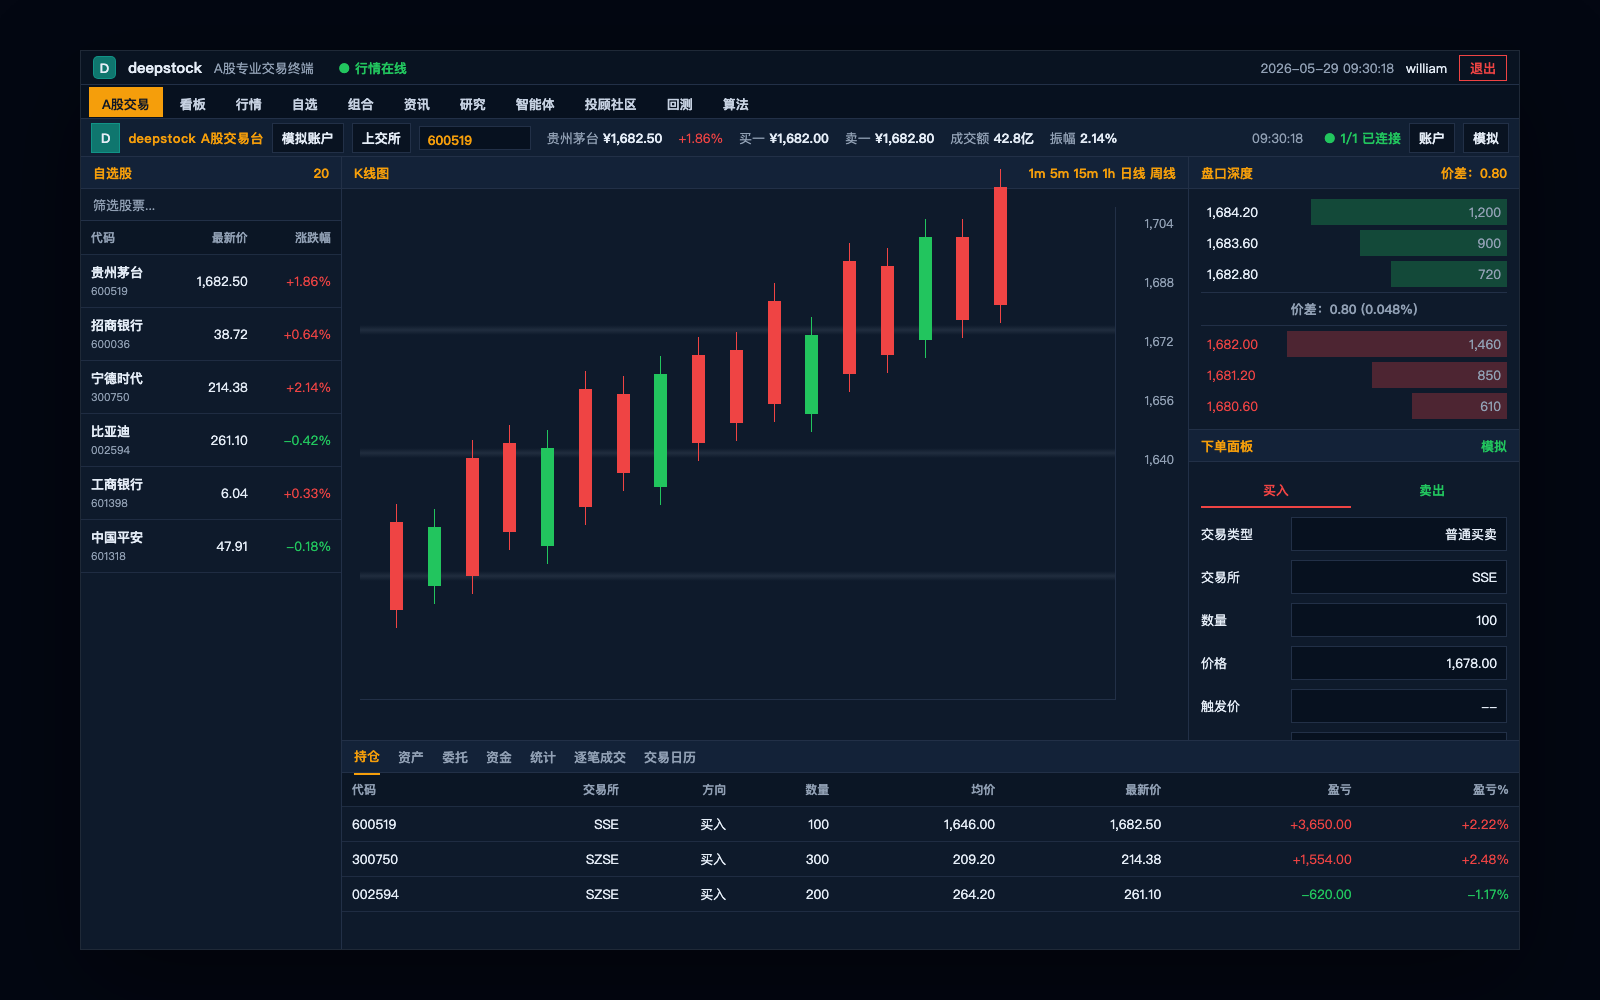
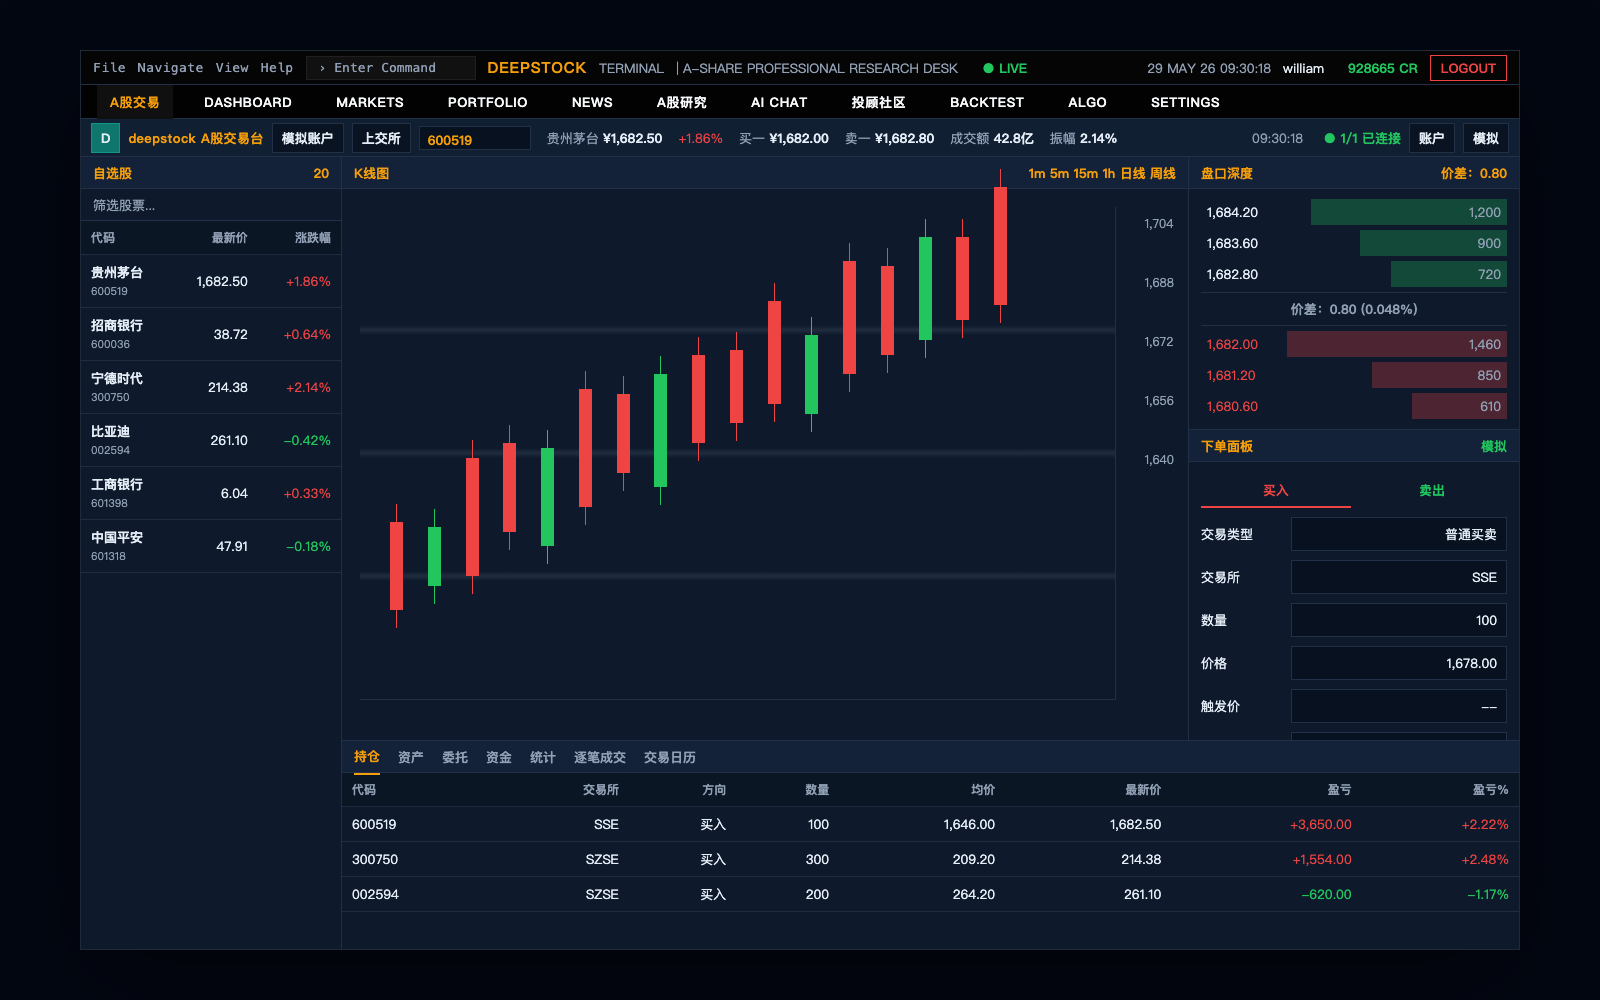
Preserve Bloomberg-style terminal chrome

Changed region(s): [[0.0312, 0.031, 0.9688, 0.124]]

diff --git a/demo-artifacts/desktop-preview.html b/demo-artifacts/desktop-preview.html
@@ -55,9 +55,27 @@
       height: 34px;
       padding: 0 12px;
       border-bottom: 1px solid var(--line);
-      background: #091321;
+      background: #050505;
       gap: 12px;
       font-size: 13px;
+    }
+
+    .menu {
+      color: var(--muted);
+      letter-spacing: .4px;
+      font-family: "SFMono-Regular", Consolas, monospace;
+    }
+
+    .cmd {
+      width: 170px;
+      height: 24px;
+      border: 1px solid #202020;
+      background: #111;
+      color: var(--muted);
+      display: flex;
+      align-items: center;
+      padding: 0 12px;
+      font-family: "SFMono-Regular", Consolas, monospace;
     }
 
     .mark {
@@ -71,7 +89,7 @@
       font-weight: 900;
     }
 
-    .brand { font-weight: 900; font-size: 15px; }
+    .brand { font-weight: 900; font-size: 15px; color: var(--amber); letter-spacing: .8px; }
     .subtitle { color: var(--muted); }
     .online { color: var(--green); font-weight: 800; margin-left: 12px; }
     .spacer { flex: 1; }
@@ -80,25 +98,26 @@
 
     .tabs {
       height: 34px;
-      gap: 4px;
-      padding: 0 8px;
+      gap: 18px;
+      padding: 0 16px;
       border-bottom: 1px solid var(--line);
-      background: #07111f;
+      background: #020202;
     }
 
     .tab {
-      height: 30px;
+      height: 34px;
       padding: 7px 12px;
       border: 1px solid transparent;
-      color: #c7d2e2;
+      color: #f8fafc;
       font-size: 13px;
       font-weight: 800;
+      letter-spacing: .6px;
     }
 
     .tab.active {
-      background: var(--amber);
-      color: #111827;
-      border-color: rgba(245,158,11,.55);
+      background: #101010;
+      color: var(--amber);
+      border-color: transparent;
     }
 
     .command {
@@ -350,28 +369,34 @@
 <body>
   <main class="terminal">
     <header class="topbar">
-      <div class="mark">D</div>
-      <div class="brand">deepstock</div>
-      <div class="subtitle">A股专业交易终端</div>
-      <div class="online">● 行情在线</div>
+      <div class="menu">File</div>
+      <div class="menu">Navigate</div>
+      <div class="menu">View</div>
+      <div class="menu">Help</div>
+      <div class="cmd">› Enter Command</div>
+      <div class="brand">DEEPSTOCK</div>
+      <div class="subtitle">TERMINAL</div>
+      <div class="subtitle">| A-SHARE PROFESSIONAL RESEARCH DESK</div>
+      <div class="online">● LIVE</div>
       <div class="spacer"></div>
-      <div class="clock">2026-05-29 09:30:18</div>
+      <div class="clock">29 MAY 26 09:30:18</div>
       <div>william</div>
-      <div class="exit">退出</div>
+      <div class="online">928665 CR</div>
+      <div class="exit">LOGOUT</div>
     </header>
 
     <nav class="tabs">
       <div class="tab active">A股交易</div>
-      <div class="tab">看板</div>
-      <div class="tab">行情</div>
-      <div class="tab">自选</div>
-      <div class="tab">组合</div>
-      <div class="tab">资讯</div>
-      <div class="tab">研究</div>
-      <div class="tab">智能体</div>
+      <div class="tab">DASHBOARD</div>
+      <div class="tab">MARKETS</div>
+      <div class="tab">PORTFOLIO</div>
+      <div class="tab">NEWS</div>
+      <div class="tab">A股研究</div>
+      <div class="tab">AI CHAT</div>
       <div class="tab">投顾社区</div>
-      <div class="tab">回测</div>
-      <div class="tab">算法</div>
+      <div class="tab">BACKTEST</div>
+      <div class="tab">ALGO</div>
+      <div class="tab">SETTINGS</div>
     </nav>
 
     <section class="command">

diff --git a/fincept-qt/src/ui/navigation/ToolBar.cpp b/fincept-qt/src/ui/navigation/ToolBar.cpp
@@ -76,16 +76,16 @@ ToolBar::ToolBar(QWidget* parent) : QWidget(parent) {
     };
 
     sep();
-    fincept_label_ = mk(" D ");
+    fincept_label_ = mk("DEEPSTOCK ");
     hl->addWidget(fincept_label_);
-    branding_label_ = mk("deepstock");
+    branding_label_ = mk("TERMINAL");
     hl->addWidget(branding_label_);
-    subtitle_label_ = mk(QString::fromUtf8("  |  A股专业交易终端"));
+    subtitle_label_ = mk("  |  A-SHARE PROFESSIONAL RESEARCH DESK");
     hl->addWidget(subtitle_label_);
     hl->addWidget(mk("  "));
     live_dot_ = mk("\xe2\x97\x8f");
     hl->addWidget(live_dot_);
-    live_label_ = mk(QString::fromUtf8(" 行情在线"));
+    live_label_ = mk(" LIVE");
     hl->addWidget(live_label_);
 
     hl->addStretch(1);
@@ -106,22 +106,22 @@ ToolBar::ToolBar(QWidget* parent) : QWidget(parent) {
     sep();
     plan_btn_ = new QPushButton("---");
     plan_btn_->setCursor(Qt::PointingHandCursor);
-    plan_btn_->setToolTip(QString::fromUtf8("查看套餐与订阅"));
+    plan_btn_->setToolTip("View Plans & Pricing");
     plan_btn_->setSizePolicy(QSizePolicy::Fixed, QSizePolicy::Fixed);
     connect(plan_btn_, &QPushButton::clicked, this, &ToolBar::plan_clicked);
     hl->addWidget(plan_btn_);
     sep();
 
-    chat_mode_btn_ = new QPushButton(QString::fromUtf8("⬡ 智能体"));
+    chat_mode_btn_ = new QPushButton(QString::fromUtf8("⬡ CHAT"));
     chat_mode_btn_->setFixedHeight(20);
     chat_mode_btn_->setCursor(Qt::PointingHandCursor);
-    chat_mode_btn_->setToolTip(QString::fromUtf8("切换到智能体模式 (F9)"));
+    chat_mode_btn_->setToolTip("Switch to Chat Mode (F9)");
     chat_mode_btn_->setSizePolicy(QSizePolicy::Fixed, QSizePolicy::Fixed);
     connect(chat_mode_btn_, &QPushButton::clicked, this, &ToolBar::chat_mode_toggled);
     hl->addWidget(chat_mode_btn_);
     sep();
 
-    logout_btn_ = new QPushButton(QString::fromUtf8("退出"));
+    logout_btn_ = new QPushButton("LOGOUT");
     logout_btn_->setFixedHeight(20);
     logout_btn_->setCursor(Qt::PointingHandCursor);
     logout_btn_->setSizePolicy(QSizePolicy::Fixed, QSizePolicy::Fixed);
@@ -162,13 +162,7 @@ void ToolBar::refresh_theme() {
         if (l)
             l->setStyleSheet(QString("color:%1;%2background:transparent;").arg(c, b ? "font-weight:700;" : ""));
     };
-    if (fincept_label_) {
-        fincept_label_->setStyleSheet(QString("color:%1;background:%2;border:1px solid %3;"
-                                              "padding:1px 6px;font-weight:900;border-radius:2px;")
-                                          .arg(colors::TEXT_PRIMARY())
-                                          .arg(colors::ACCENT_BG())
-                                          .arg(colors::AMBER_DIM()));
-    }
+    lbl(fincept_label_, colors::AMBER(), true);
     lbl(branding_label_, colors::TEXT_PRIMARY(), true);
     lbl(subtitle_label_, colors::TEXT_SECONDARY());
     lbl(live_dot_, colors::POSITIVE());
@@ -240,7 +234,7 @@ void ToolBar::apply_responsive_layout(int w) {
 
 void ToolBar::update_clock() {
     auto dt = QDateTime::currentDateTime();
-    clock_label_->setText(dt.toString("yyyy-MM-dd HH:mm:ss"));
+    clock_label_->setText(dt.toString("dd MMM yy").toUpper() + " " + dt.toString("HH:mm:ss"));
 }
 
 void ToolBar::refresh_user_display() {
@@ -270,20 +264,20 @@ void ToolBar::refresh_user_display() {
 }
 
 QMenu* ToolBar::build_file_menu() {
-    auto* m = new QMenu(QString::fromUtf8("文件"), this);
+    auto* m = new QMenu("File", this);
     m->setStyleSheet(popup_ss());
-    m->addAction(QString::fromUtf8("新建窗口"), this, [this]() { emit action_triggered("new_window"); });
+    m->addAction("New Window", this, [this]() { emit action_triggered("new_window"); });
 
     // "Move to Monitor" — rebuilt on every popup so plug/unplug events are
     // reflected without restarting the app. Emits "move_to_monitor:<name>"
     // so WindowFrame can look the screen up by name (indices are unstable).
-    auto* monitors = m->addMenu(QString::fromUtf8("移动到显示器"));
+    auto* monitors = m->addMenu("Move to Monitor");
     monitors->setStyleSheet(popup_ss());
     connect(monitors, &QMenu::aboutToShow, this, [this, monitors]() {
         monitors->clear();
         const auto screens = QGuiApplication::screens();
         if (screens.size() <= 1) {
-            auto* only = monitors->addAction(QString::fromUtf8("（仅一个显示器）"));
+            auto* only = monitors->addAction("(single monitor)");
             only->setEnabled(false);
             return;
         }
@@ -300,22 +294,22 @@ QMenu* ToolBar::build_file_menu() {
     });
 
     m->addSeparator();
-    m->addAction(QString::fromUtf8("新建工作区"), this, [this]() { emit action_triggered("new_workspace"); });
-    m->addAction(QString::fromUtf8("打开工作区"), this, [this]() { emit action_triggered("open_workspace"); });
-    m->addAction(QString::fromUtf8("保存工作区"), this, [this]() { emit action_triggered("save_workspace"); });
-    m->addAction(QString::fromUtf8("工作区另存为"), this, [this]() { emit action_triggered("save_workspace_as"); });
+    m->addAction("New Workspace", this, [this]() { emit action_triggered("new_workspace"); });
+    m->addAction("Open Workspace", this, [this]() { emit action_triggered("open_workspace"); });
+    m->addAction("Save Workspace", this, [this]() { emit action_triggered("save_workspace"); });
+    m->addAction("Save Workspace As", this, [this]() { emit action_triggered("save_workspace_as"); });
     m->addSeparator();
-    m->addAction(QString::fromUtf8("导入工作区"), this, [this]() { emit action_triggered("import_data"); });
-    m->addAction(QString::fromUtf8("导出工作区"), this, [this]() { emit action_triggered("export_data"); });
+    m->addAction("Import Workspace", this, [this]() { emit action_triggered("import_data"); });
+    m->addAction("Export Workspace", this, [this]() { emit action_triggered("export_data"); });
     m->addSeparator();
-    m->addAction(QString::fromUtf8("文件管理"), this, [this]() { emit navigate_to("file_manager"); });
+    m->addAction("File Manager", this, [this]() { emit navigate_to("file_manager"); });
     m->addSeparator();
-    m->addAction(QString::fromUtf8("刷新全部"), this, [this]() { emit action_triggered("refresh"); });
+    m->addAction("Refresh All", this, [this]() { emit action_triggered("refresh"); });
     return m;
 }
 
 QMenu* ToolBar::build_navigate_menu() {
-    auto* m = new QMenu(QString::fromUtf8("导航"), this);
+    auto* m = new QMenu("Navigate", this);
     m->setStyleSheet(QString("QMenu{background:%1;color:%2;border:1px solid %3;padding:2px 0;}"
                              "QMenu::item{padding:3px 20px 3px 10px;}"
                              "QMenu::item:selected{background:%4;}"
@@ -341,9 +335,9 @@ QMenu* ToolBar::build_navigate_menu() {
     };
 
     // Markets & Data
-    auto* mkt = add_sub(QString::fromUtf8("行情与数据"));
-    nav(mkt, QString::fromUtf8("宏观经济"), "economics");
-    nav(mkt, QString::fromUtf8("政府数据"), "gov_data");
+    auto* mkt = add_sub("Markets & Data");
+    nav(mkt, "Economics", "economics");
+    nav(mkt, "GOVT Data", "gov_data");
     nav(mkt, "DBnomics", "dbnomics");
     nav(mkt, QString::fromUtf8("AKShare 数据"), "akshare");
     nav(mkt, QString::fromUtf8("亚洲市场"), "asia_markets");
@@ -362,8 +356,8 @@ QMenu* ToolBar::build_navigate_menu() {
     nav(crypto, QString::fromUtf8("加密资产中心"), "crypto_center");
 
     // Research & Intelligence
-    auto* res = add_sub(QString::fromUtf8("研究与智能"));
-    nav(res, QString::fromUtf8("个股研究"), "equity_research");
+    auto* res = add_sub("Research & Intelligence");
+    nav(res, QString::fromUtf8("A股研究"), "equity_research");
     nav(res, QString::fromUtf8("并购分析"), "ma_analytics");
     nav(res, QString::fromUtf8("另类投资"), "alt_investments");
     nav(res, QString::fromUtf8("地缘政治"), "geopolitics");
@@ -371,8 +365,8 @@ QMenu* ToolBar::build_navigate_menu() {
     nav(res, QString::fromUtf8("波动率曲面"), "surface_analytics");
 
     // Tools
-    auto* tools = add_sub(QString::fromUtf8("工具"));
-    nav(tools, QString::fromUtf8("智能体配置"), "agent_config");
+    auto* tools = add_sub("Tools");
+    nav(tools, "Agent Config", "agent_config");
     nav(tools, "MCP Servers", "mcp_servers");
     nav(tools, QString::fromUtf8("数据映射"), "data_mapping");
     nav(tools, QString::fromUtf8("数据源"), "data_sources");
@@ -394,7 +388,7 @@ QMenu* ToolBar::build_navigate_menu() {
 }
 
 QMenu* ToolBar::build_view_menu() {
-    auto* m = new QMenu(QString::fromUtf8("视图"), this);
+    auto* m = new QMenu("View", this);
     m->setStyleSheet(popup_ss());
     // Component Browser at the top — Bloomberg's discoverability hook.
     m->addAction(QString::fromUtf8("组件浏览器\tCtrl+K"), this,
@@ -481,7 +475,7 @@ QMenu* ToolBar::build_view_menu() {
 }
 
 QMenu* ToolBar::build_help_menu() {
-    auto* m = new QMenu(QString::fromUtf8("帮助"), this);
+    auto* m = new QMenu("Help", this);
     m->setStyleSheet(popup_ss());
     m->addAction(QString::fromUtf8("关于 deepstock"), this, [this]() { emit navigate_to("about"); });
     m->addAction(QString::fromUtf8("帮助中心"), this, [this]() { emit navigate_to("help"); });

diff --git a/fincept-qt/src/app/DockScreenRouter.cpp b/fincept-qt/src/app/DockScreenRouter.cpp
@@ -38,18 +38,18 @@ namespace fincept {
 
 QString DockScreenRouter::title_for_id(const QString& id) {
     static const QHash<QString, QString> titles = {
-        {"dashboard", QString::fromUtf8("看板")},
-        {"markets", QString::fromUtf8("行情")},
-        {"crypto_trading", QString::fromUtf8("加密交易")},
+        {"dashboard", "Dashboard"},
+        {"markets", "Markets"},
+        {"crypto_trading", "Crypto Trading"},
         {"equity_trading", QString::fromUtf8("A股交易")},
-        {"algo_trading", QString::fromUtf8("算法交易")},
-        {"backtesting", QString::fromUtf8("回测")},
-        {"portfolio", QString::fromUtf8("组合")},
+        {"algo_trading", "Algo Trading"},
+        {"backtesting", "Backtesting"},
+        {"portfolio", "Portfolio"},
         {"watchlist", QString::fromUtf8("自选股")},
-        {"news", QString::fromUtf8("资讯")},
-        {"ai_chat", QString::fromUtf8("智能体")},
-        {"equity_research", QString::fromUtf8("个股研究")},
-        {"economics", QString::fromUtf8("宏观经济")},
+        {"news", "News"},
+        {"ai_chat", "AI Chat"},
+        {"equity_research", QString::fromUtf8("A股研究")},
+        {"economics", "Economics"},
         {"dbnomics", "DBnomics"},
         {"akshare", QString::fromUtf8("AKShare 数据")},
         {"asia_markets", QString::fromUtf8("亚洲市场")},
@@ -77,16 +77,16 @@ QString DockScreenRouter::title_for_id(const QString& id) {
         {"file_manager", QString::fromUtf8("文件管理")},
         {"notes", QString::fromUtf8("笔记")},
         {"forum", QString::fromUtf8("投顾社区")},
-        {"docs", QString::fromUtf8("文档")},
-        {"support", QString::fromUtf8("支持")},
-        {"about", QString::fromUtf8("关于")},
-        {"profile", QString::fromUtf8("我的")},
-        {"settings", QString::fromUtf8("设置")},
-        {"contact", QString::fromUtf8("联系")},
-        {"terms", QString::fromUtf8("条款")},
-        {"privacy", QString::fromUtf8("隐私")},
-        {"trademarks", QString::fromUtf8("商标")},
-        {"help", QString::fromUtf8("帮助")},
+        {"docs", "Docs"},
+        {"support", "Support"},
+        {"about", "About"},
+        {"profile", "Profile"},
+        {"settings", "Settings"},
+        {"contact", "Contact"},
+        {"terms", "Terms"},
+        {"privacy", "Privacy"},
+        {"trademarks", "Trademarks"},
+        {"help", "Help"},
     };
     return titles.value(id, id);
 }

diff --git a/fincept-qt/src/ui/navigation/FKeyBar.cpp b/fincept-qt/src/ui/navigation/FKeyBar.cpp
@@ -19,18 +19,18 @@ TabBar::TabBar(QWidget* parent) : QWidget(parent) {
 
     QVector<TabDef> tabs = {
         {"equity_trading", QString::fromUtf8("A股交易")},
-        {"dashboard", QString::fromUtf8("看板")},
-        {"markets", QString::fromUtf8("行情")},
-        {"watchlist", QString::fromUtf8("自选")},
-        {"portfolio", QString::fromUtf8("组合")},
-        {"news", QString::fromUtf8("资讯")},
-        {"equity_research", QString::fromUtf8("研究")},
-        {"ai_chat", QString::fromUtf8("智能体")},
+        {"dashboard", "DASHBOARD"},
+        {"markets", "MARKETS"},
+        {"watchlist", "WATCHLIST"},
+        {"portfolio", "PORTFOLIO"},
+        {"news", "NEWS"},
+        {"equity_research", QString::fromUtf8("A股研究")},
+        {"ai_chat", "AI CHAT"},
         {"forum", QString::fromUtf8("投顾社区")},
-        {"backtesting", QString::fromUtf8("回测")},
-        {"algo_trading", QString::fromUtf8("算法")},
-        {"settings", QString::fromUtf8("设置")},
-        {"profile", QString::fromUtf8("我的")},
+        {"backtesting", "BACKTEST"},
+        {"algo_trading", "ALGO"},
+        {"settings", "SETTINGS"},
+        {"profile", "PROFILE"},
     };
     for (const auto& def : tabs)
         add_tab(def);
